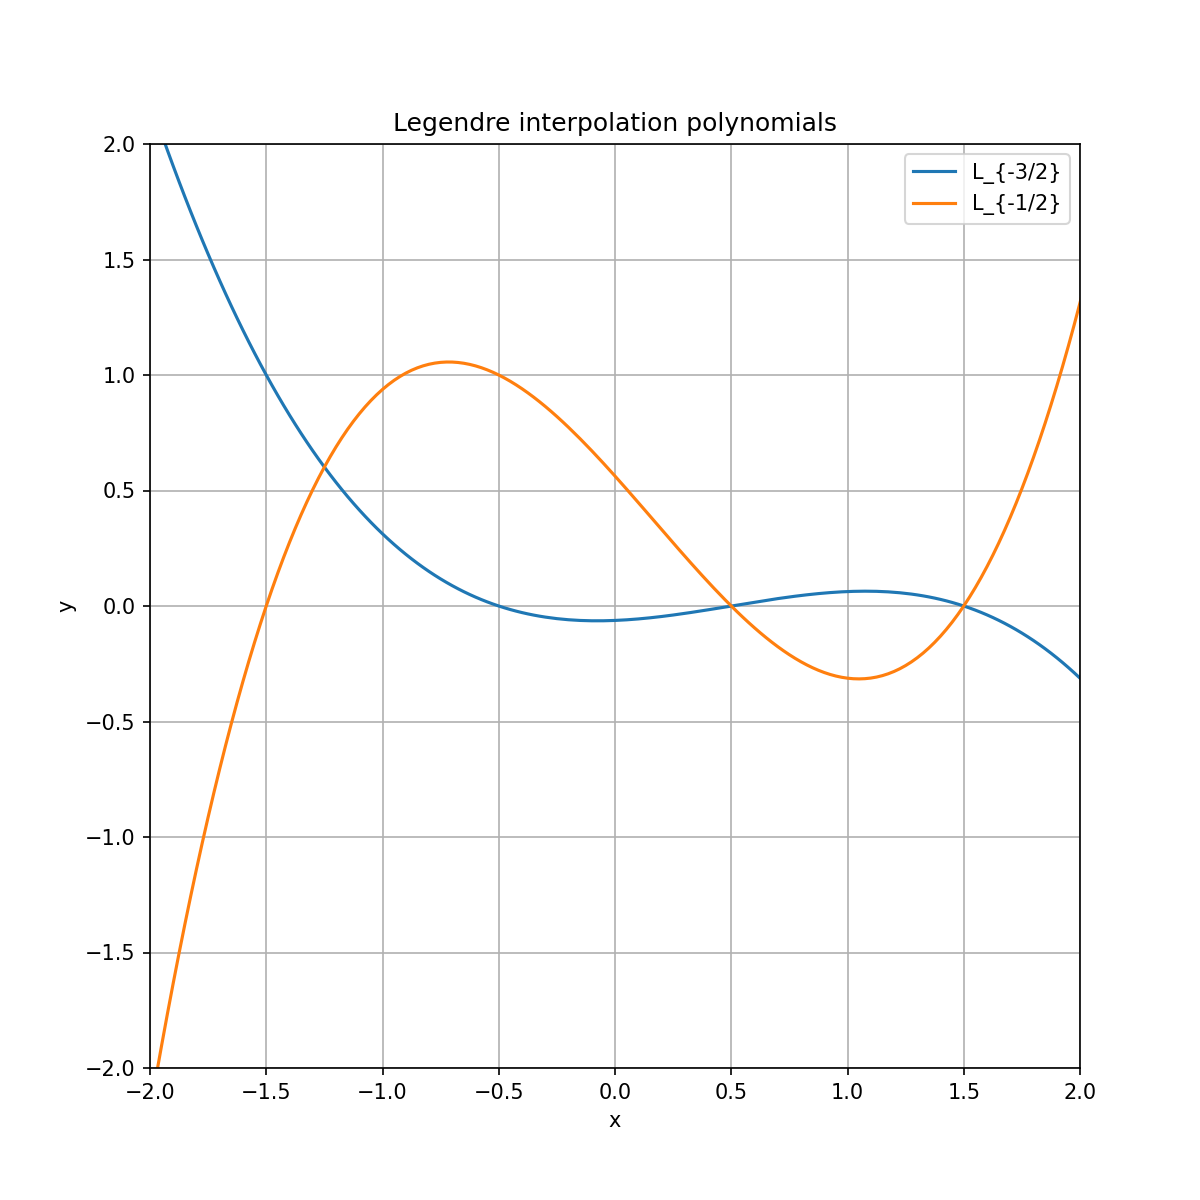
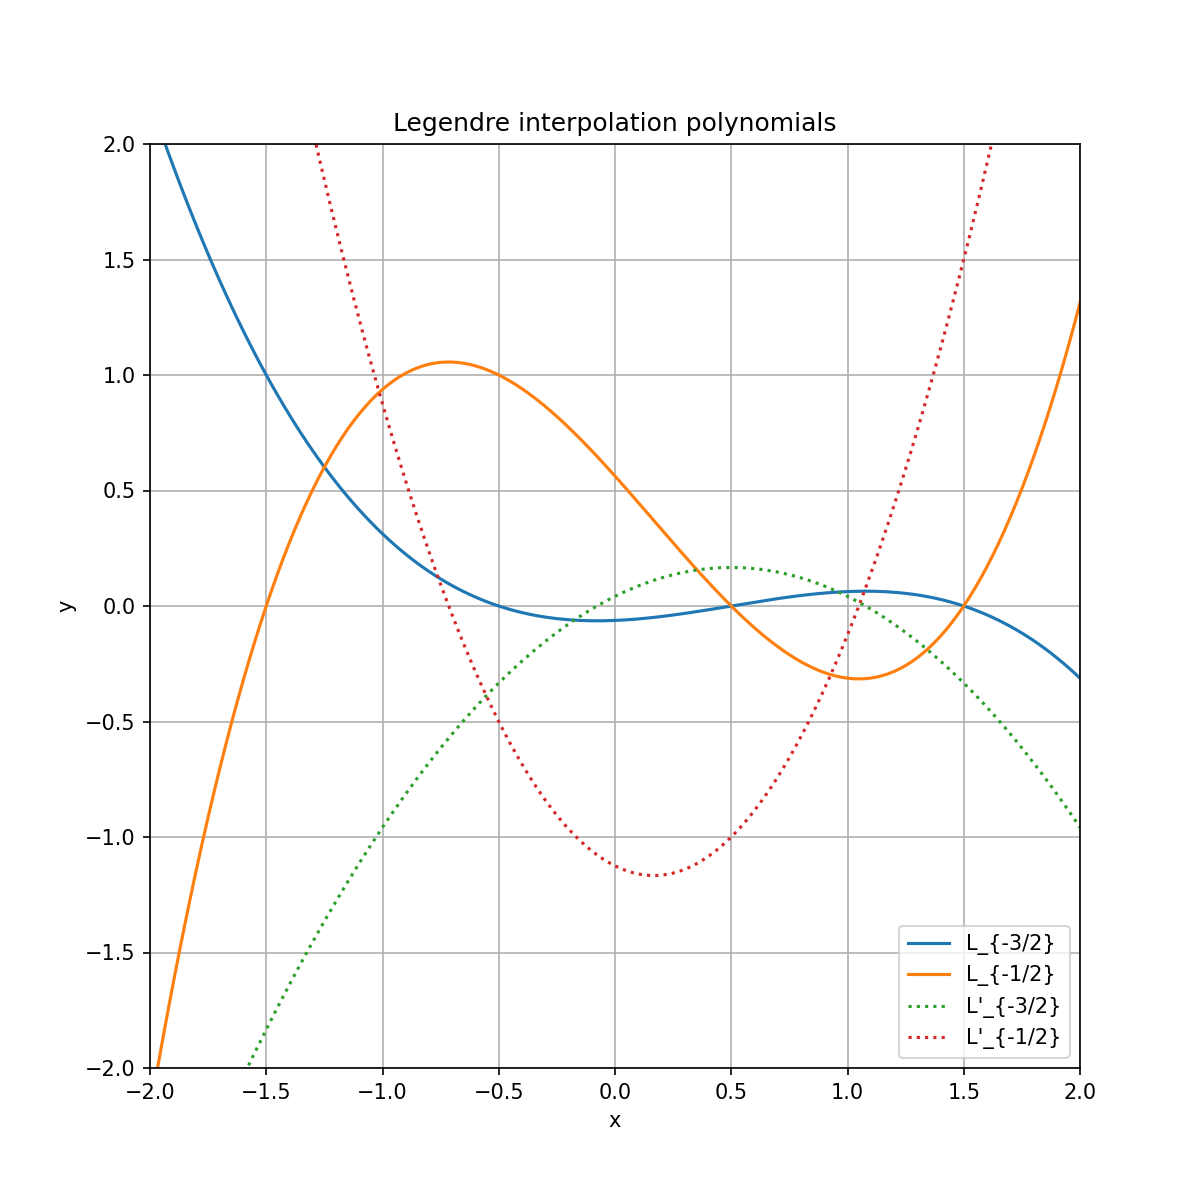
some corrections

Changed region(s): [[0.74, 0.7708, 0.8942, 0.8942], [0.74, 0.1233, 0.8942, 0.185], [0.4317, 0.0925, 0.6783, 0.1233]]

diff --git a/samples/legendre_interpolation/legendre-s4.py b/samples/legendre_interpolation/legendre-s4.py
@@ -2,18 +2,22 @@ import numpy as np
 import matplotlib.pyplot as plt
 
 from numpy.polynomial import Polynomial
+from typing import Tuple
 
-def legendre_poly(k):
+def legendre_poly(k:int) -> Tuple[Polynomial, Polynomial]:
     coeff = np.array([[-1/16, 1/24, 1/4, -1/6], [9/16, -9/8, -1/4, 1/2], [9/16, 9/8, -1/4, -1/2], [-1/16, -1/24, 1/4, 1/6]])
+    res_prime = [coeff[k][1], 2*coeff[k][2], 3*coeff[k][3]]
     res = coeff[k]
-    return Polynomial(res)
+    return (Polynomial(res), Polynomial(res_prime))
 
+# Create interpolation polynomials of 3-rd order
 x = np.linspace(-2, 3, 201)
-p_m32 = legendre_poly(0)
-p_m12 = legendre_poly(1)
-p_p12 = legendre_poly(2)
-p_p32 = legendre_poly(3)
+p_m32, p_prime_m32 = legendre_poly(0)
+p_m12, p_prime_m12 = legendre_poly(1)
+p_p12, p_prime_p12 = legendre_poly(2)
+p_p32, p_prime_p32 = legendre_poly(3)
 
+# Plot interpolation polynomials
 fig = plt.figure(figsize=(8, 8))
 plt.title("Legendre interpolation polynomials")
 #plt.axis("equal")
@@ -23,10 +27,14 @@ plt.xlabel("x")
 plt.ylabel("y")
 plt.grid(True)
 
-plt.plot(x, p_m32(x))
-plt.plot(x, p_m12(x))
-#plt.plot(x, p_p12(x))
-#plt.plot(x, p_p32(x))
-plt.legend(['L_{-3/2}', 'L_{-1/2}', 'L_{1/2}', 'L_{3/2}'])
+plt.plot(x, p_m32(x), label="L_{-3/2}")
+plt.plot(x, p_m12(x), label="L_{-1/2}")
+#plt.plot(x, p_p12(x), label="L_{1/2}")
+#plt.plot(x, p_p32(x), label="L_{3/2}")
+plt.plot(x, p_prime_m32(x), linestyle='dotted', label="L'_{-3/2}")
+plt.plot(x, p_prime_m12(x), linestyle='dotted', label="L'_{-1/2}")
+#plt.plot(x, p_prime_p12(x), linestyle='dotted', label="L'_{1/2}")
+#plt.plot(x, p_prime_p32(x), linestyle='dotted', label="L'_{3/2}")
+plt.legend()
 
 fig.savefig('sample-04.png', dpi=150)
